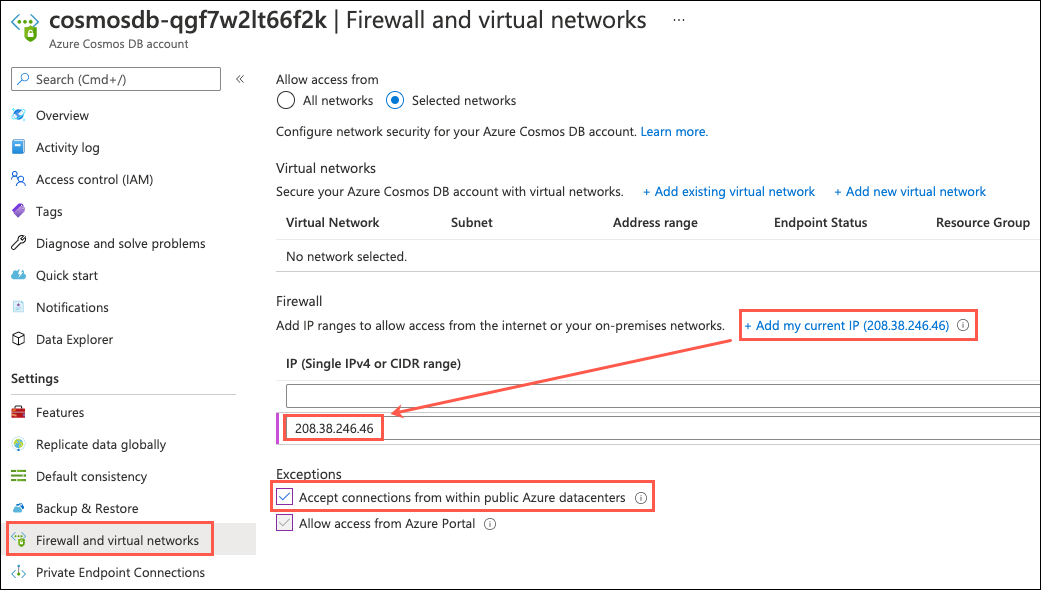
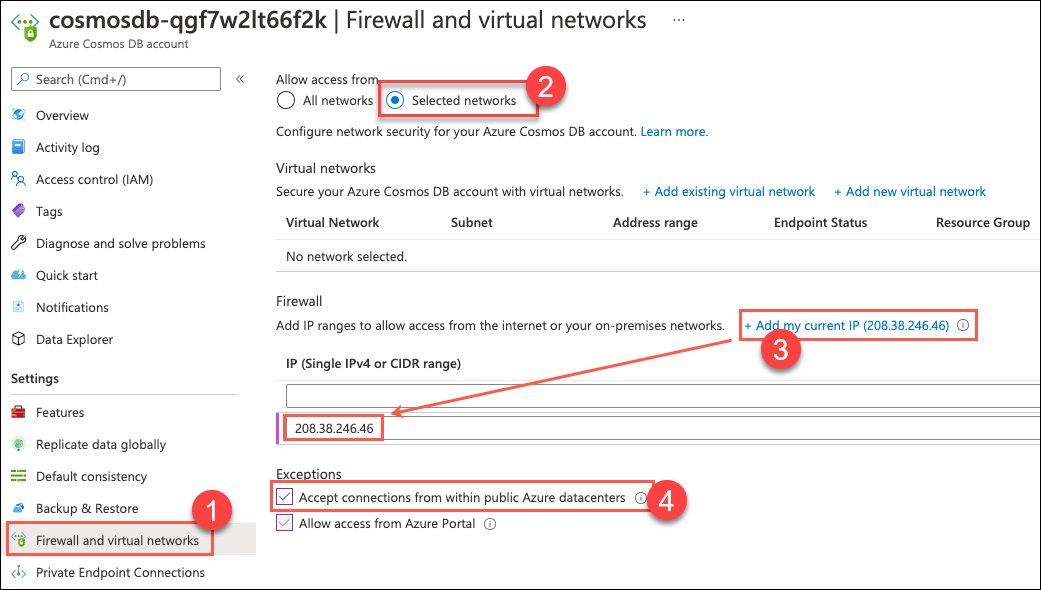
Adding network selection step for Before HOL

diff --git a/Hands-on lab/Before the HOL - Serverless architecture.md b/Hands-on lab/Before the HOL - Serverless architecture.md
@@ -157,9 +157,9 @@ In this task, you run an Azure Resource Manager (ARM) template to create the han
 
    ![The Azure Cosmos DB account resource is highlighted in the list of services in the resource group.](media/resource-group-cosmos-db-account.png "Resources")
 
-3. Next, select **Firewall and virtual networks** in the left-hand navigation menu of the Cosmos DB blade.
+3. Next, select **Firewall and virtual networks** in the left-hand navigation menu of the Cosmos DB blade.   
 
-4. Select **+ Add my current IP** to add your IP address to the IP list under Firewall. Next, check the box next to **Accept connections from within public Azure datacenters**. Checking this box enables Azure services, such as your Function Apps, to access your Azure Cosmos DB account.
+4. Choose **Selected networks (2)**. Select **+ Add my current IP (3)** to add your IP address to the IP list under Firewall. Next, check the box next to **Accept connections from within public Azure datacenters (4)**. Checking this box enables Azure services, such as your Function Apps, to access your Azure Cosmos DB account.
 
     ![The checkbox is highlighted.](media/cosmos-db-firewall.png "Firewall and virtual networks")
 
